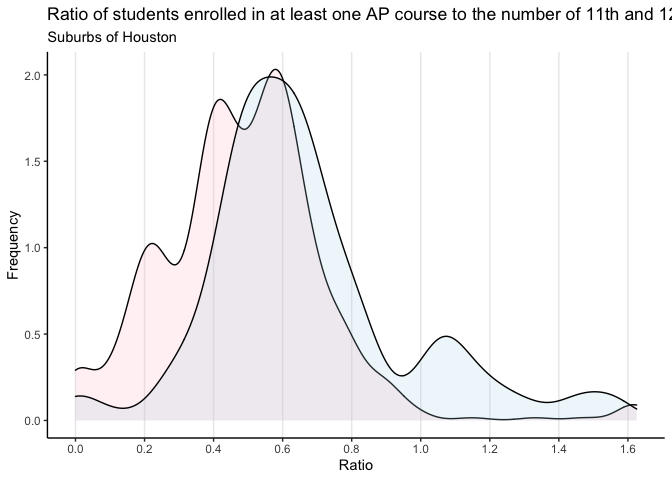
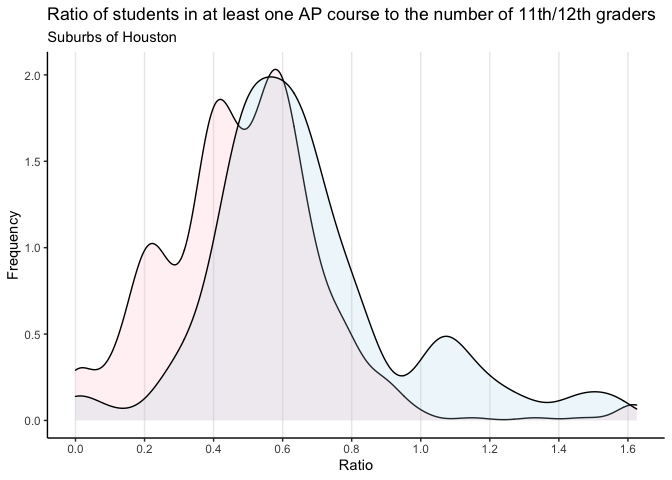
updates:)

Changed region(s): [[0.2812, 0.0, 1.0, 0.0625]]

diff --git a/Jay's work/Dec_6.md b/Jay's work/Dec_6.md
@@ -387,7 +387,7 @@ ggplot()+
   geom_density(aes(AP_students), alpha = .2, fill="pink", data = ap_hou)+
   geom_density(aes(AP_students), alpha = .2, fill="lightblue",  data = hou_wealthy)+
   labs(
-    title="Ratio of students enrolled in at least one AP course to the number of 11th and 12th graders.",
+    title="Ratio of students in at least one AP course to the number of 11th/12th graders",
     subtitle="Houston",
     x="Ratio",
     y="Frequency"
@@ -406,7 +406,7 @@ ggplot()+
   geom_density(aes(AP_students), alpha = .2, fill="pink", data = ap_sub_hou)+
   geom_density(aes(AP_students), alpha = .2, fill="lightblue",  data = sub_hou_wealthy)+
   labs(
-    title="Ratio of students enrolled in at least one AP course to the number of 11th and 12th graders.",
+    title="Ratio of students in at least one AP course to the number of 11th/12th graders",
     subtitle="Suburbs of Houston",
     x="Ratio",
     y="Frequency"
@@ -428,7 +428,7 @@ ggplot()+
   geom_density(aes(AP_students), alpha = .2, fill="pink", data = ap_philly)+
   geom_density(aes(AP_students), alpha = .2, fill="lightblue",  data = philly_wealthy)+
   labs(
-    title="Ratio of students enrolled in at least one AP course to the number of 11th and 12th graders.",
+    title="Ratio of students in at least one AP course to the number of 11th/12th graders",
     subtitle="Philadelphia",
     x="Ratio",
     y="Frequency"
@@ -449,7 +449,7 @@ ggplot()+
   geom_density(aes(AP_students), alpha = .2, fill="pink", data = ap_sub_philly)+
   geom_density(aes(AP_students), alpha = .2, fill="lightblue",  data = sub_philly_wealthy)+
   labs(
-    title="Ratio of students enrolled in at least one AP course to the number of 11th and 12th graders.",
+    title="Ratio of students in at least one AP course to the number of 11th/12th graders",
     subtitle="Suburbs of Philadelphia",
     x="Ratio",
     y="Frequency"
@@ -470,7 +470,7 @@ ggplot()+
   geom_density(aes(AP_students), alpha = .2, fill="pink", data = ap_la)+
   geom_density(aes(AP_students), alpha = .2, fill="lightblue",  data = la_wealthy)+
   labs(
-    title="Ratio of students in at least one AP course to the number of 11th and 12th graders.",
+    title="Ratio of students in at least one AP course to the number of 11th/12th graders.",
     subtitle="Los Angeles",
     x="Ratio",
     y="Frequency"
@@ -493,7 +493,7 @@ ggplot()+
   geom_density(aes(AP_students), alpha = .2, fill="pink", data = ap_sub_la)+
   geom_density(aes(AP_students), alpha = .2, fill="lightblue",  data = sub_la_wealthy)+
   labs(
-    title="Ratio of students in at least one AP course to the number of 11th and 12th graders.",
+    title="Ratio of students in at least one AP course to the number of 11th/12th graders",
     subtitle="Suburbs of Los Angeles",
     x="Ratio",
     y="Frequency"
@@ -516,7 +516,7 @@ ggplot()+
   geom_density(aes(AP_students), alpha = .2, fill="pink", data = ap_q_ny)+
   geom_density(aes(AP_students), alpha = .2, fill="lightblue",  data = q_ny_wealthy)+
   labs(
-    title="Ratio of students in at least one AP course to the number of 11th/12th graders.",
+    title="Ratio of students in at least one AP course to the number of 11th/12th graders",
     subtitle="Queens",
     x="Ratio",
     y="Frequency"
@@ -539,7 +539,7 @@ ggplot()+
   geom_density(aes(AP_students), alpha = .2, fill="pink", data = ap_s_ny)+
   geom_density(aes(AP_students), alpha = .2, fill="lightblue",  data = s_ny_wealthy)+
   labs(
-    title="Ratio of students in at least one AP course to the number of 11th/12th graders.",
+    title="Ratio of students in at least one AP course to the number of 11th/12th graders",
     subtitle="Staten Island",
     x="Ratio",
     y="Frequency"
@@ -562,7 +562,7 @@ ggplot()+
   geom_density(aes(AP_students), alpha = .2, fill="pink", data = ap_ny)+
   geom_density(aes(AP_students), alpha = .2, fill="lightblue",  data = ny_wealthy)+
   labs(
-    title="Ratio of students in at least one AP course to the number of 11th/12th graders.",
+    title="Ratio of students in at least one AP course to the number of 11th/12th graders",
     subtitle="Manhattan",
     x="Ratio",
     y="Frequency"
@@ -585,7 +585,7 @@ ggplot()+
   geom_density(aes(AP_students), alpha = .2, fill="pink", data = ap_b_ny)+
   geom_density(aes(AP_students), alpha = .2, fill="lightblue",  data = b_ny_wealthy)+
   labs(
-    title="Ratio of students in at least one AP course to the number of 11th/12th graders.",
+    title="Ratio of students in at least one AP course to the number of 11th/12th graders",
     subtitle="Bronx",
     x="Ratio",
     y="Frequency"
@@ -608,7 +608,7 @@ ggplot()+
   geom_density(aes(AP_students), alpha = .2, fill="pink", data = ap_k_ny)+
   geom_density(aes(AP_students), alpha = .2, fill="lightblue",  data = k_ny_wealthy)+
   labs(
-    title="Ratio of students in at least one AP course to the number of 11th/12th graders.",
+    title="Ratio of students in at least one AP course to the number of 11th/12th graders",
     subtitle="Brookyn",
     x="Ratio",
     y="Frequency"
